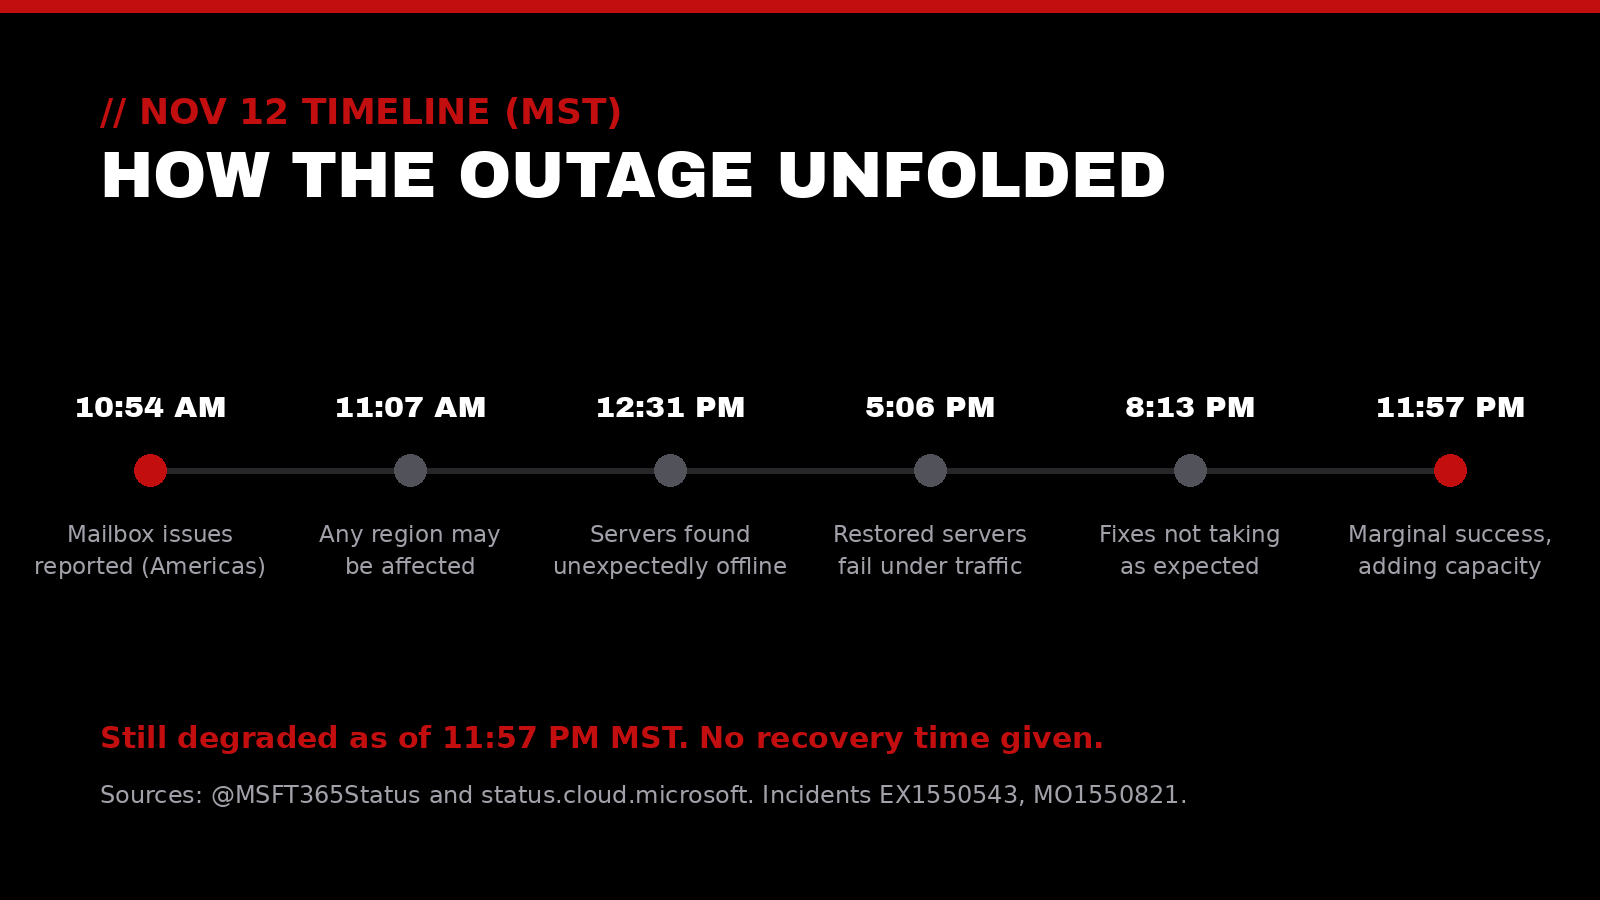
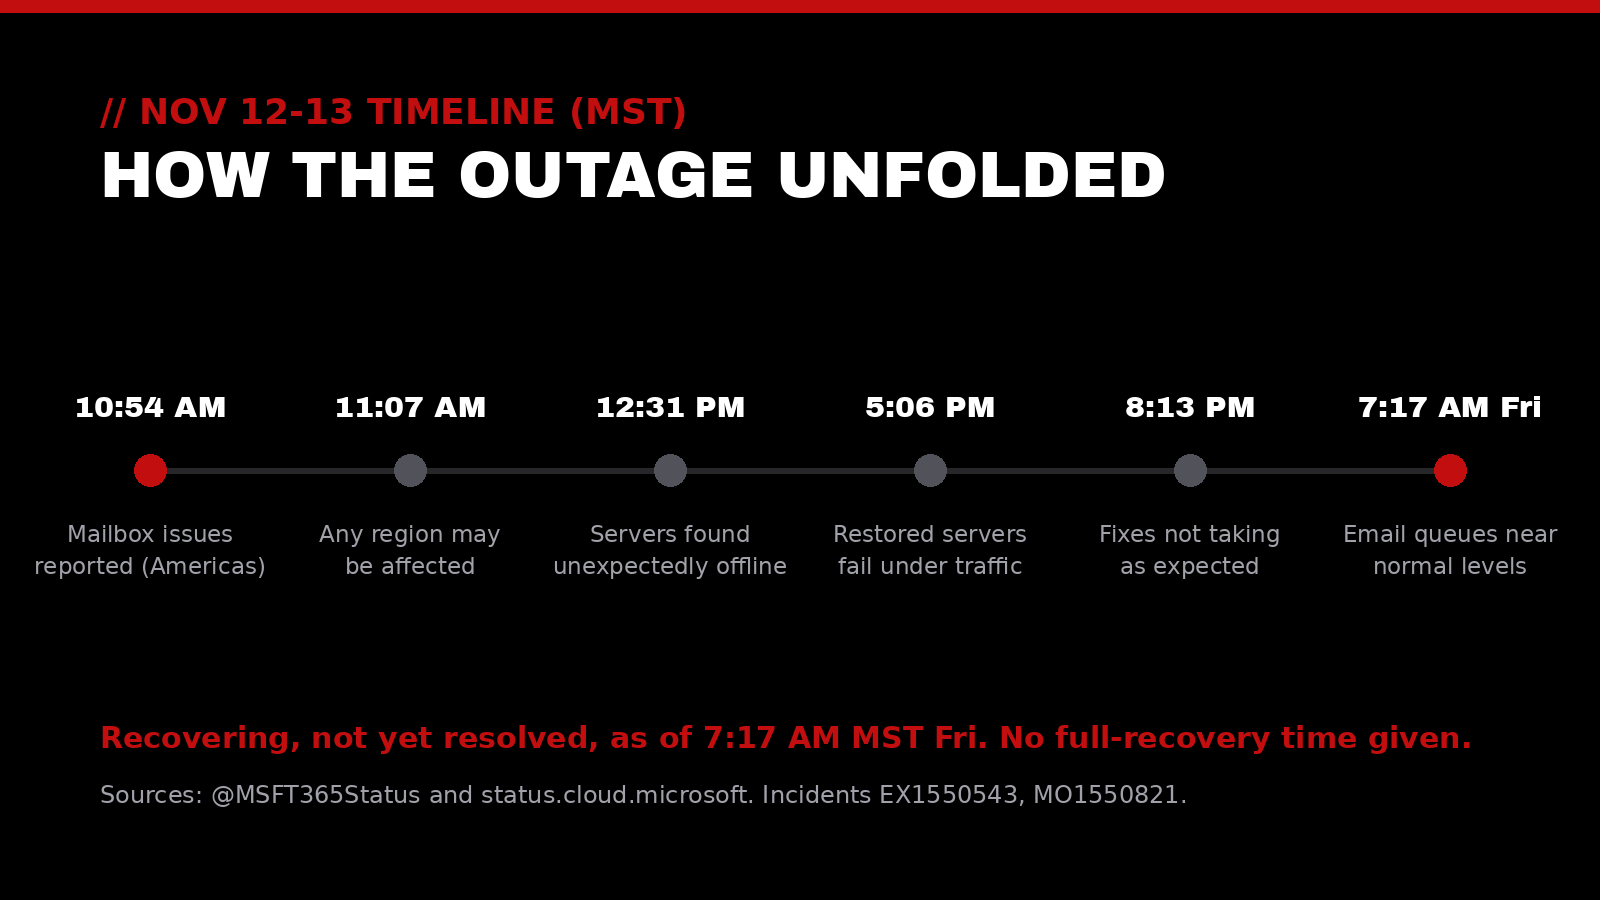
Blog: refresh outage status to 7:17 AM MST Fri

diff --git a/src/content/blog/outlook-outage-nov-2026.md b/src/content/blog/outlook-outage-nov-2026.md
@@ -11,7 +11,7 @@ seoTitle: "Microsoft 365 Outlook Outage: What Happened and What to Do"
 seoDescription: "A Microsoft 365 outage cut many users off from Outlook and Exchange Online on Nov 12. What happened, where things stand, and practical steps to take."
 ---
 
-On Thursday, Nov 12, many organizations opened Outlook and found nothing would load. A Microsoft 365 outage centered on Exchange Online, the service behind business email and calendars, left users unable to reach their mailboxes and spread into Teams, Copilot, and other tools that depend on it. As of late Thursday night, Microsoft was still working to restore full service.
+On Thursday, Nov 12, many organizations opened Outlook and found nothing would load. A Microsoft 365 outage centered on Exchange Online, the service behind business email and calendars, left users unable to reach their mailboxes and spread into Teams, Copilot, and other tools that depend on it. As of early Friday morning, Microsoft reported steady recovery but had not declared the outage resolved.
 
 Here's a plain-language look at what happened, where things stand, and the steps that help most while a core service is down.
 
@@ -25,11 +25,11 @@ The impact followed Exchange Online. Microsoft said users might not be able to r
 
 As for the cause, Microsoft first pointed to elevated load, then [clarified](https://x.com/MSFT365Status/status/2120962673911181437) that it wasn't driven by more traffic but by "a number of servers being unexpectedly unavailable," which strained the rest. Later it said [a core process on affected servers](https://x.com/MSFT365Status/status/2121002505911857577) was becoming overwhelmed. Microsoft has said it is [not aware of any malicious activity](https://www.cnbc.com/2026/11/12/microsoft-outage-outlook-aws-google.html) and will publish a full root cause in a Post-Incident Report once service is restored.
 
-![Timeline of the Nov 12 Microsoft 365 outage in MST, from the first mailbox reports at 10:54 AM to marginal recovery and added capacity at 11:57 PM, with service still degraded](./images/tnn-outage-timeline.png)
+![Timeline of the Nov 12 Microsoft 365 outage in MST, from the first mailbox reports at 10:54 AM to steady recovery by early Friday, with email queues near normal levels at 7:17 AM and the outage not yet declared resolved](./images/tnn-outage-timeline.png)
 
 ## // 02 Where things stand
 
-**As of 11:57 PM MST Thursday, Nov 12**, the outage was not resolved. Microsoft's [public status page](https://status.cloud.microsoft/) still listed Microsoft 365 as "Service degradation" for both business and consumer users, and its consumer notice named Outlook.com, OneDrive, and Teams among the affected services. Recovery has been uneven. Servers brought back in the afternoon [could become unresponsive again](https://x.com/MSFT365Status/status/2121031935010951521) once traffic returned, and at 8:13 PM MST Microsoft said its changes were "[not taking as expected](https://x.com/MSFT365Status/status/2121079061774491735)." By 9:36 PM MST it reported [partial recovery](https://x.com/MSFT365Status/status/2121099952633840043) in regions where new traffic measures were in place, and at 11:12 PM MST it said work to [recover frontend servers](https://x.com/MSFT365Status/status/2121123916496146821) was continuing. In its 11:57 PM MST update on the status page, Microsoft said it had "observed marginal success" after applying patches and rebooting infrastructure, and that it was adding capacity using virtual machines. Microsoft has not given an estimated time for full recovery; its next update was due by 12:30 AM MST Friday.
+**As of 7:17 AM MST Friday, Nov 13**, Microsoft's latest update on X said service availability was continuing to improve, with [email queues significantly reduced and approaching normal levels](https://x.com/MSFT365Status/status/2121246073955962896). It added that some users may still see intermittent access issues or delayed email delivery as recovery continues. Microsoft's [public status page](https://status.cloud.microsoft/) still showed "Service degradation" for Microsoft 365 at that point, so the outage was not declared resolved. Recovery was uneven overnight. Servers brought back in the afternoon [could become unresponsive again](https://x.com/MSFT365Status/status/2121031935010951521) once traffic returned, and at 8:13 PM MST Microsoft said its changes were "[not taking as expected](https://x.com/MSFT365Status/status/2121079061774491735)." By 9:36 PM MST it reported [partial recovery](https://x.com/MSFT365Status/status/2121099952633840043). Early Friday, Microsoft [said](https://x.com/MSFT365Status/status/2121172248241348867) it was seeing early stabilization and had extended the email timeout to 48 hours to help preserve delayed mail. By 4:11 AM it reported [actions completed](https://x.com/MSFT365Status/status/2121199246959378803) across portions of the affected infrastructure, and at 6:32 AM [continued recovery](https://x.com/MSFT365Status/status/2121234739562450970) in North America, Europe, and Asia Pacific. Microsoft has not given a time for full recovery.
 
 Conditions may have changed by the time you read this. The live sources are the **Service health** page in the Microsoft 365 admin center, [status.cloud.microsoft](https://status.cloud.microsoft/) if the admin center won't load, and [@MSFT365Status](https://x.com/MSFT365Status) on X.
 
